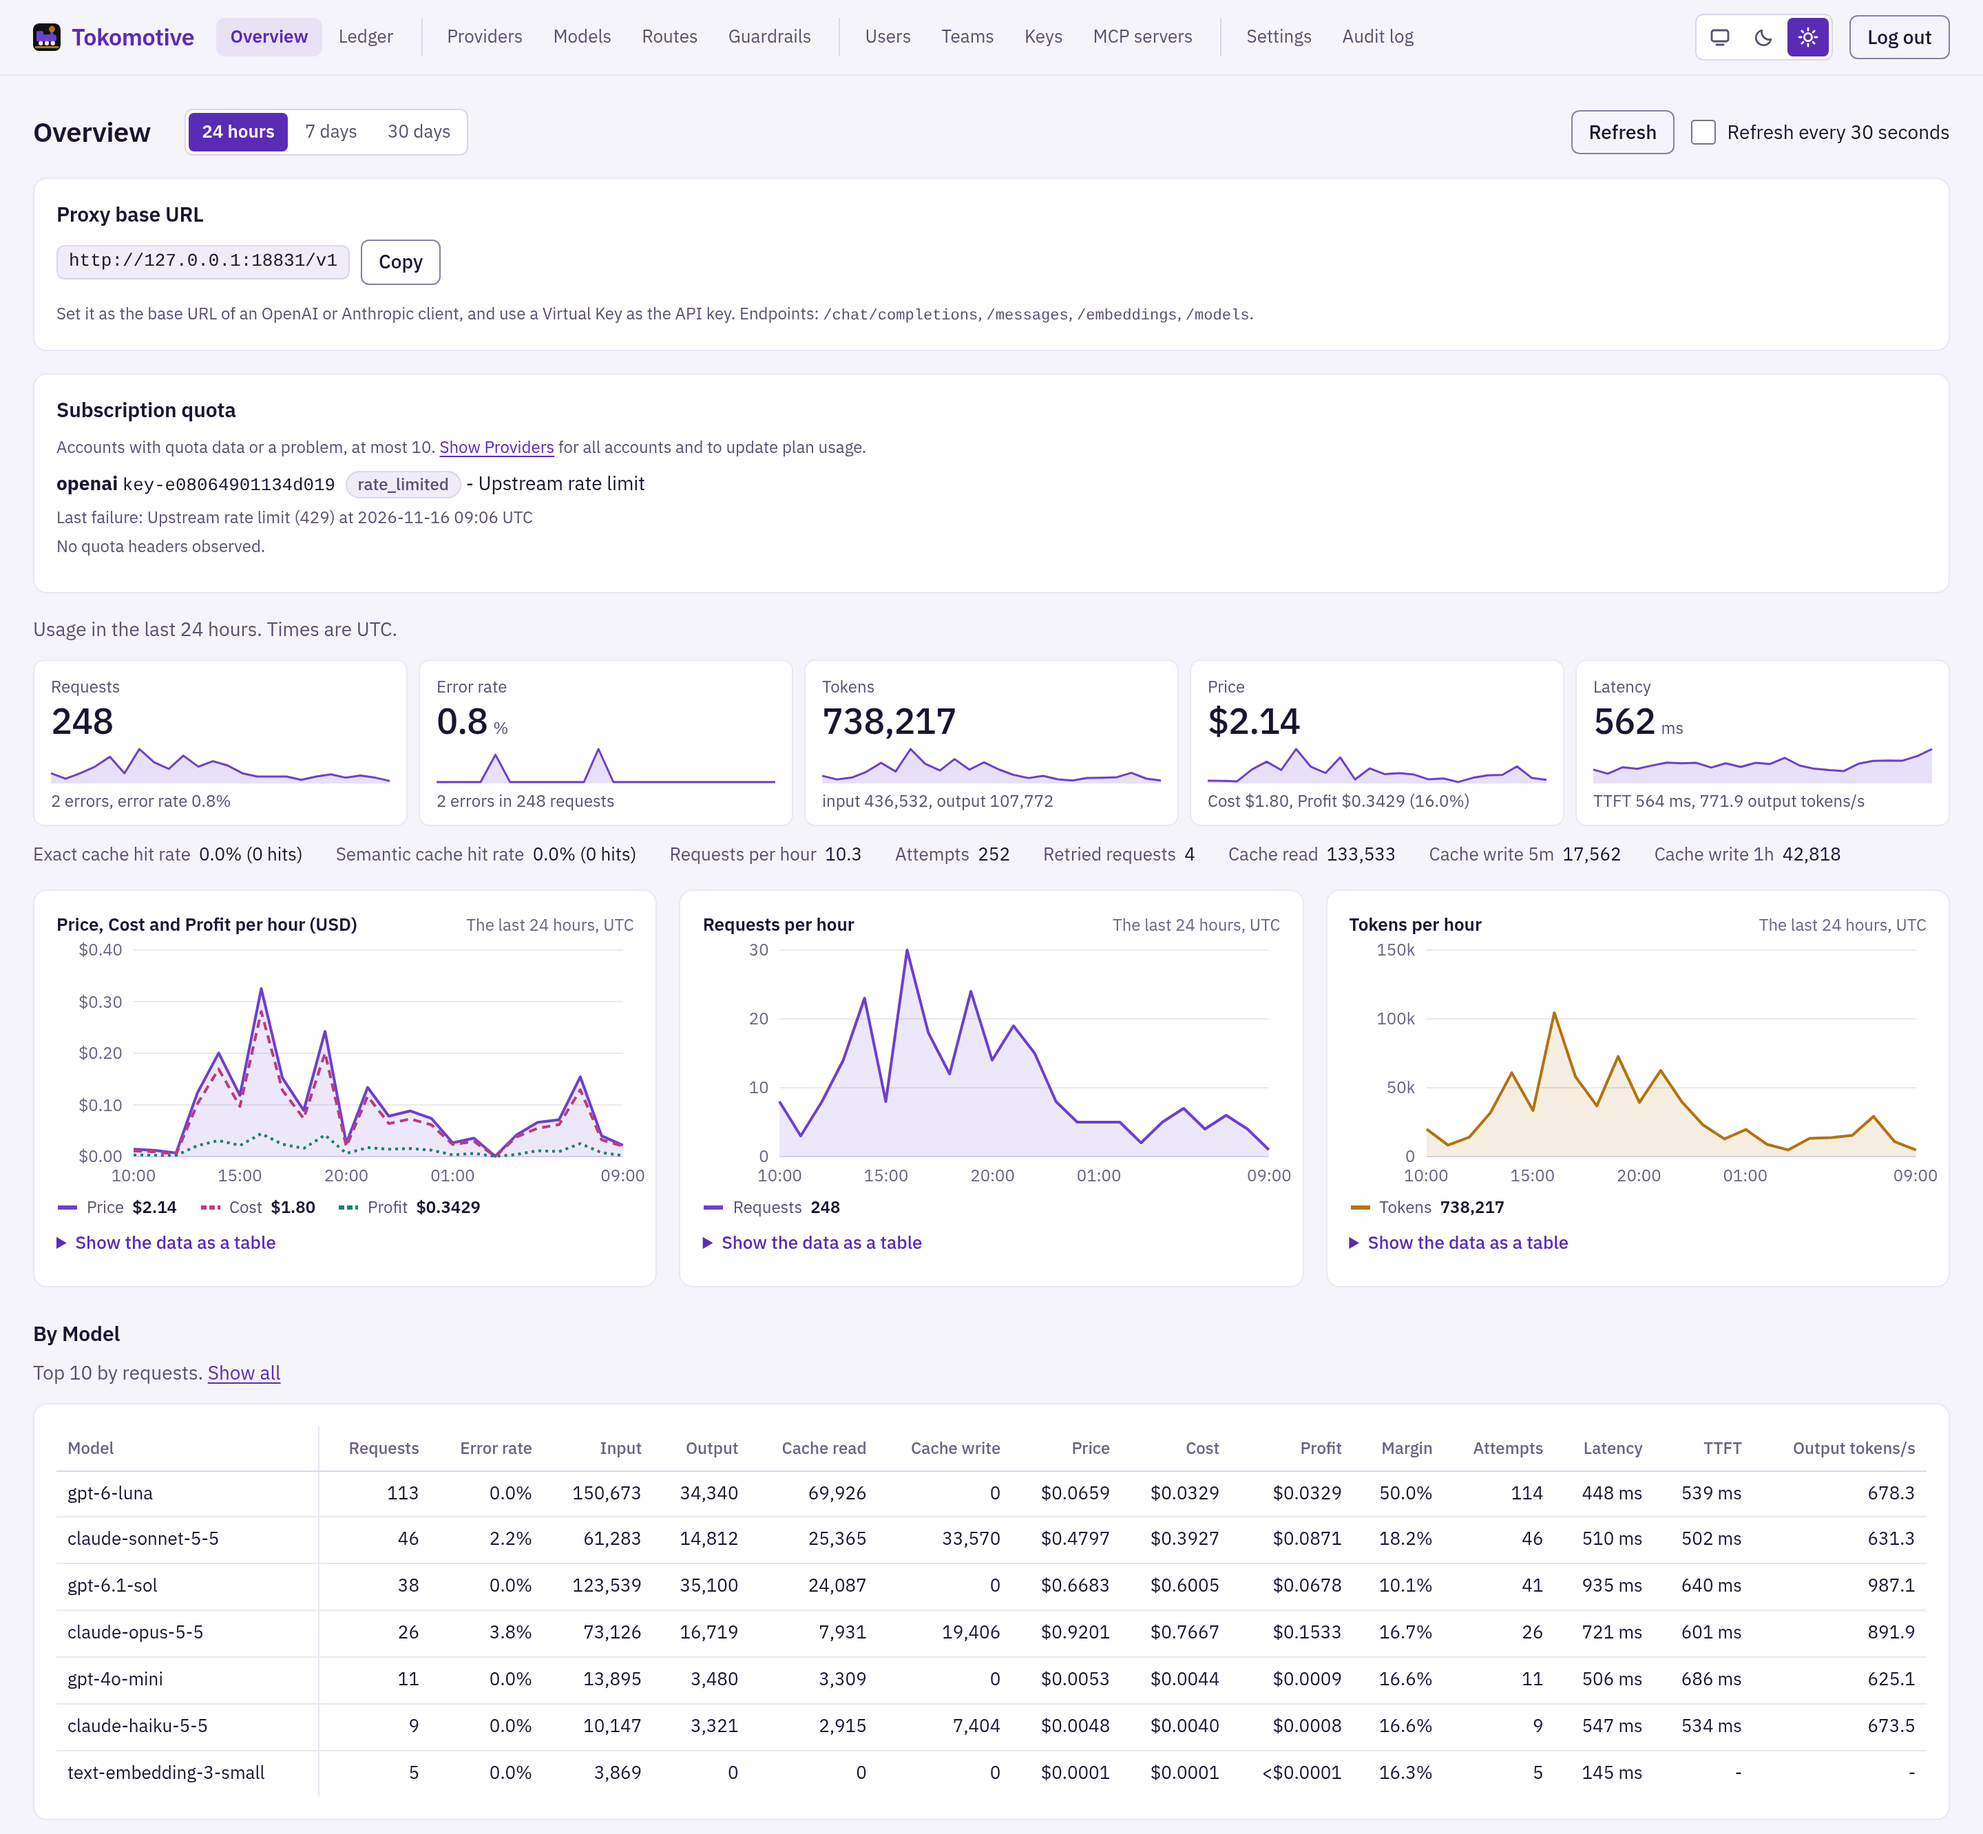
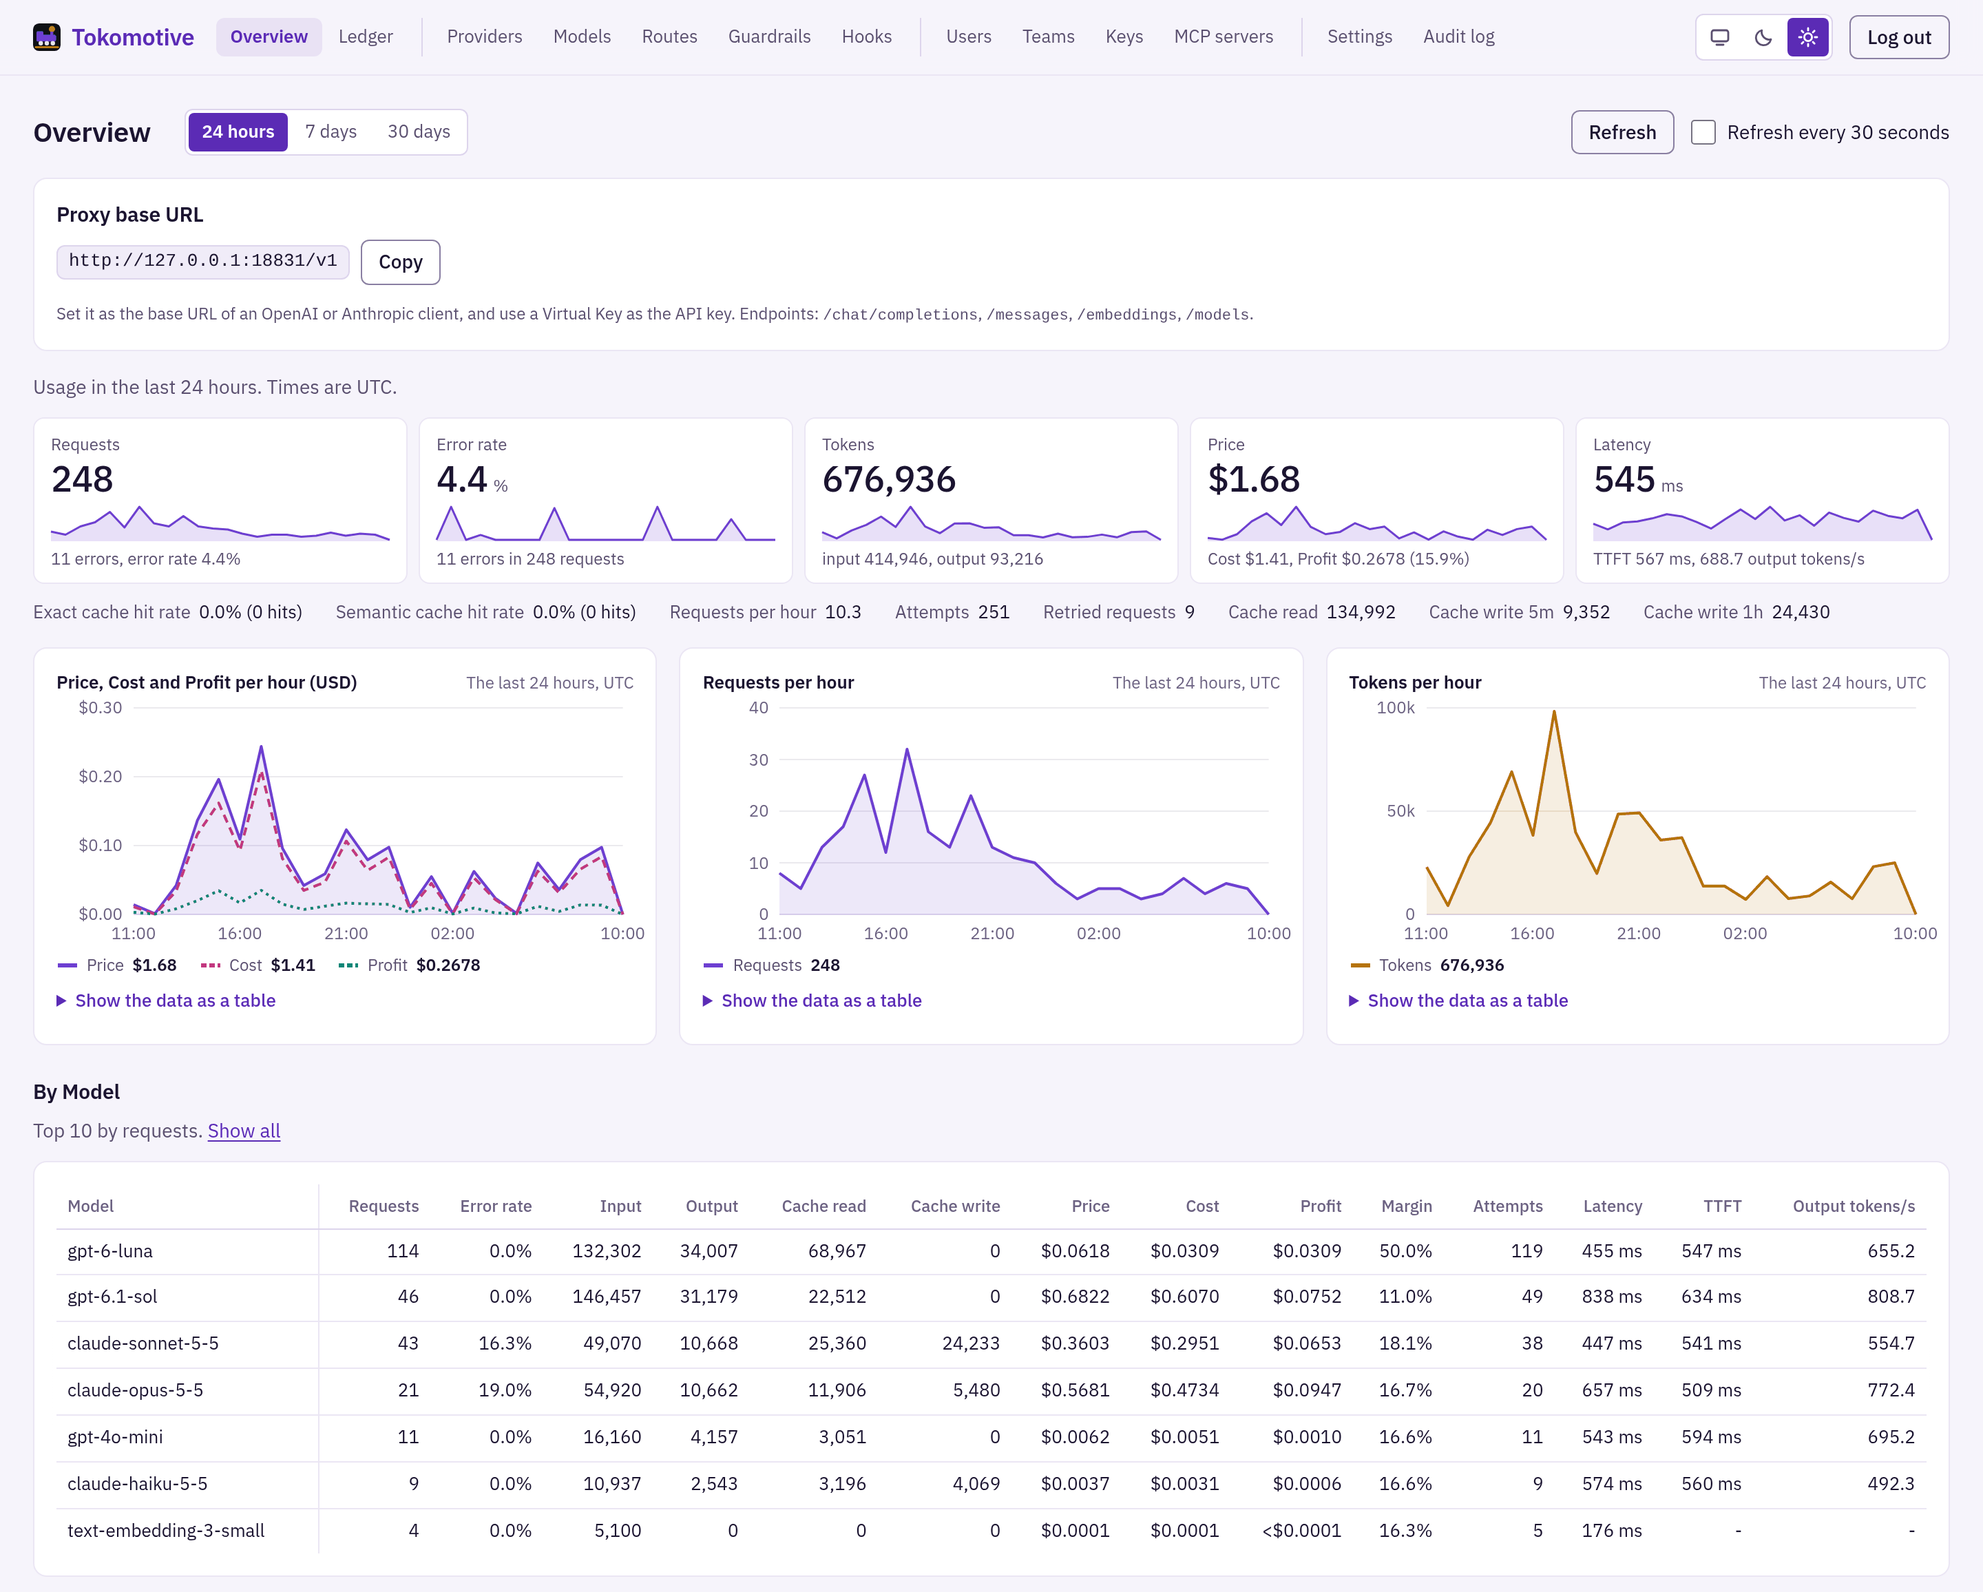
docs: capture the Hooks screen and refresh screenshots

diff --git a/README.md b/README.md
@@ -178,6 +178,7 @@ The capture manifest records these changes for the next image refresh.
 | [Secret stores](docs/images/secrets.png) | Owner-only Secret stores settings with encrypted auth settings, a private-address control and a refresh interval. |
 | [Single sign-on](docs/images/oidc.png) | Owner-only OIDC settings with the redirect URI, masked client secret and structured group-to-role mappings. |
 | [My account](docs/images/account.png) | The signed-in account with its OIDC identity count and Single sign-on status. |
+| [Hooks](docs/images/hooks.png) | Signed request, response and event hooks with stage controls, attachment pickers, failure mode and a signed sample test. |
 | [Audit log](docs/images/audit.png) | The audit log: who changed what and when, with filters and the pager. |
 | [Guardrails](docs/images/guardrails.png) | A rule set in the rule editor with a detector, a regex and a keyword rule, its Route attachment and a test box for pasted text. |
 | [MCP servers](docs/images/mcp-servers.png) | MCP servers with masked credentials, a connection test and cached tool descriptions. |
